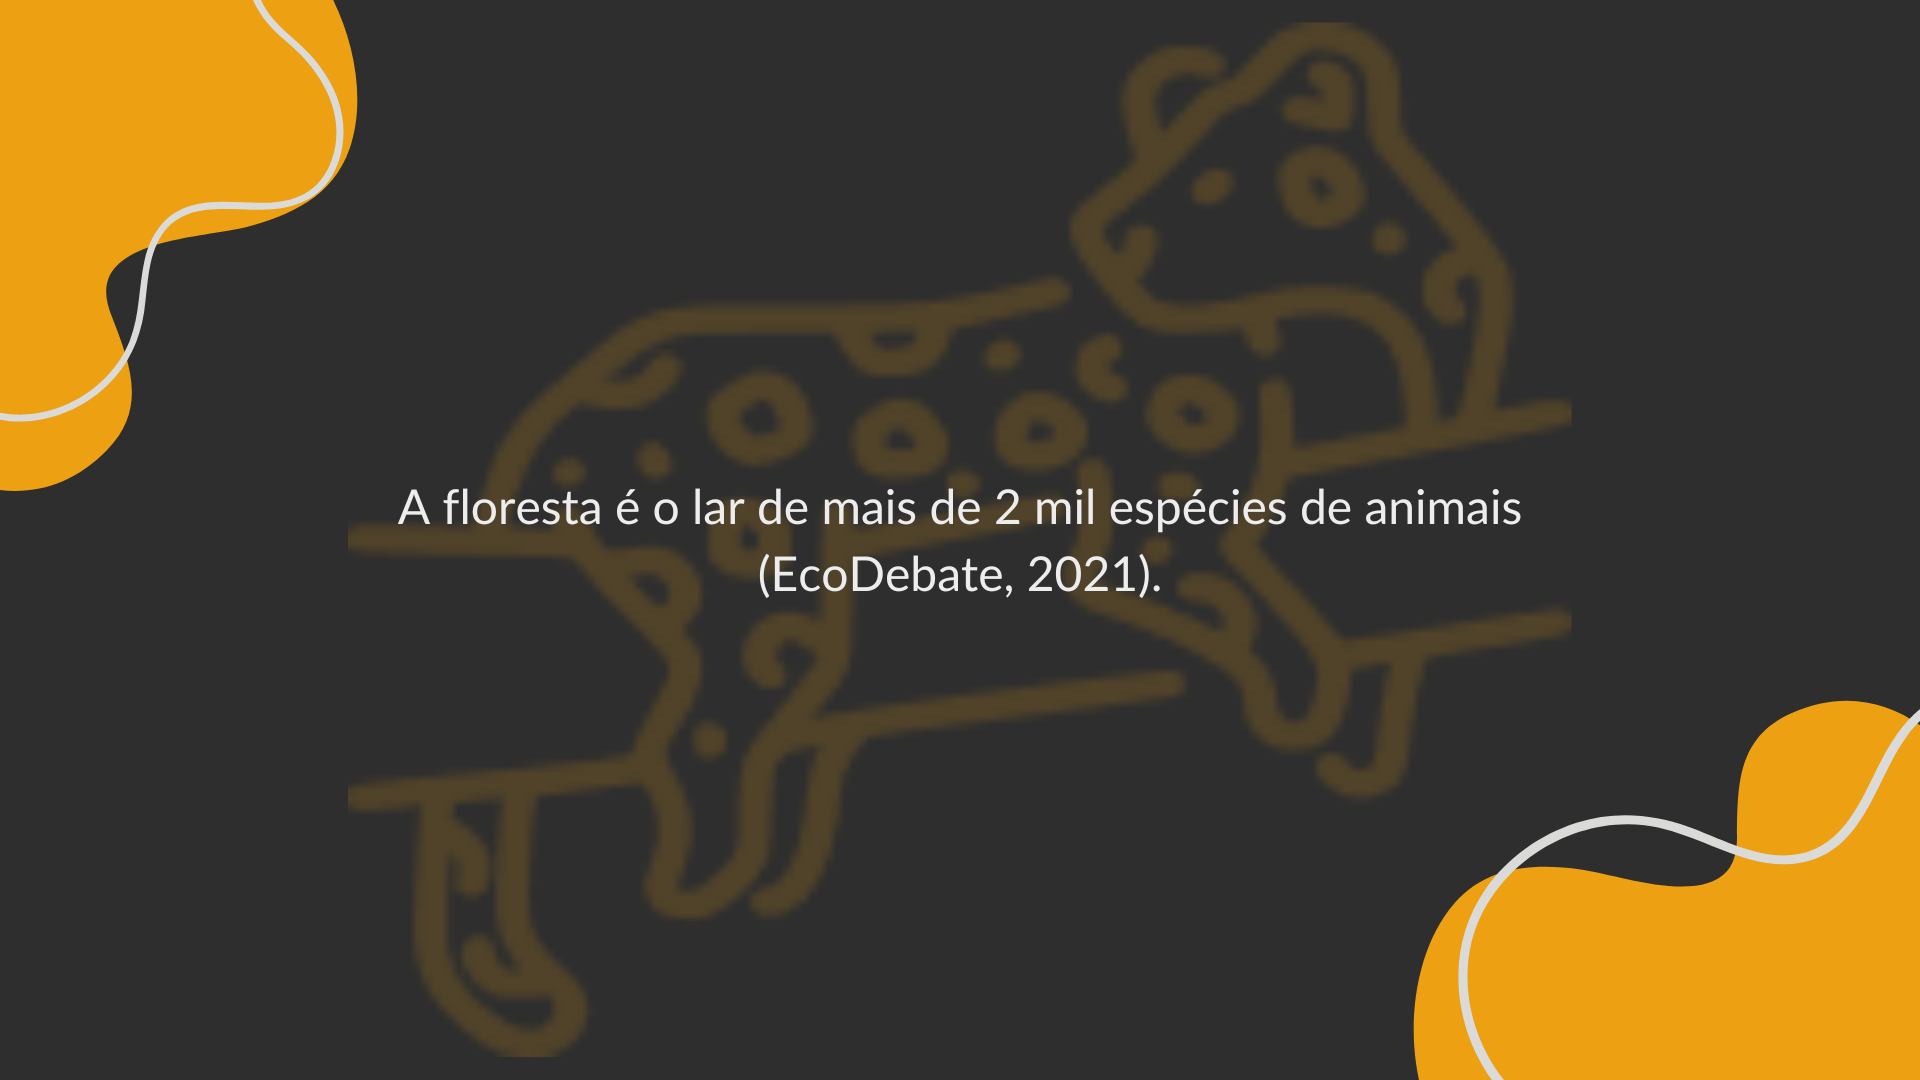
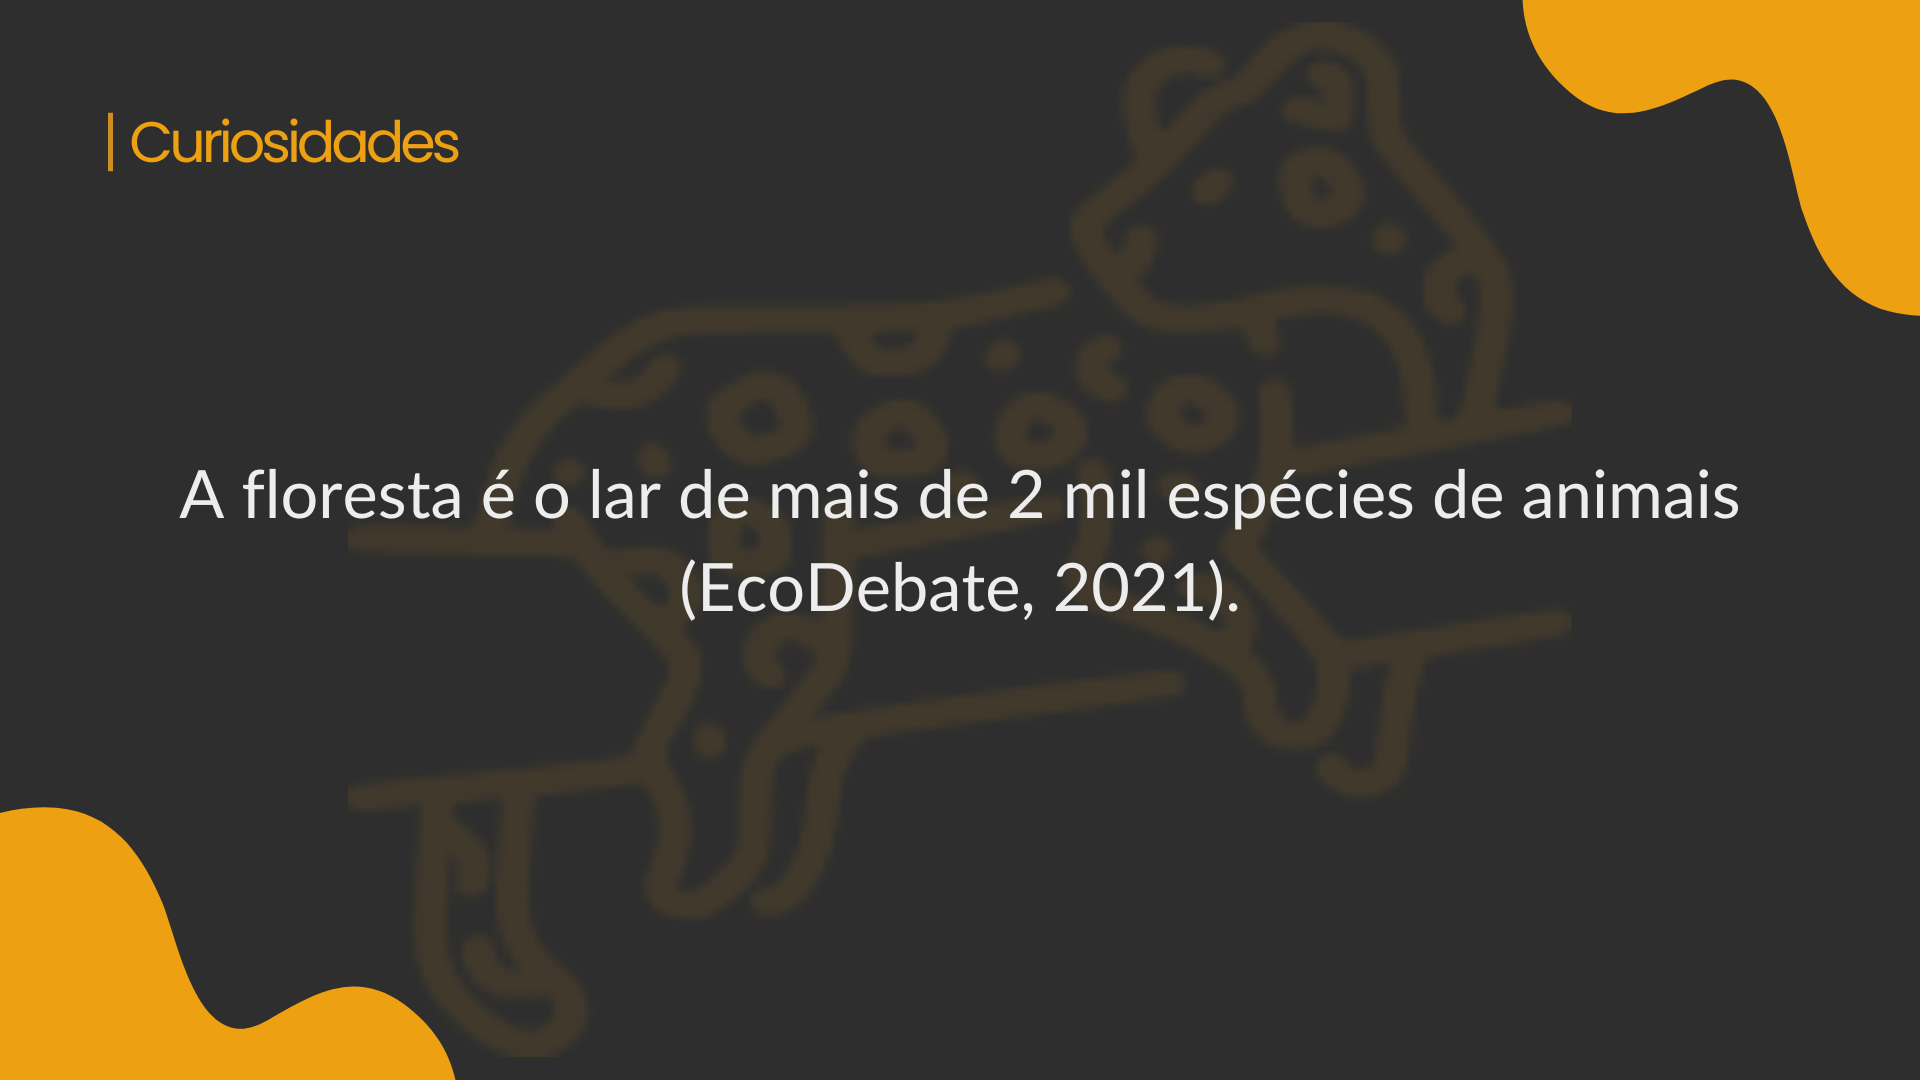
carrossel atualização

diff --git a/view/index.php b/view/index.php
@@ -6,23 +6,55 @@
     <div class="container-fluid">
         <div class="container">
             <div class="row">
-                <div class="col-sm-12 col-xxl-6 col-xl-6 text-center">
-                    <img data-aos="fade-up" src="images/img1.png" alt="">
+                <h1 data-aos="fade-up" class="quicksand-font text-center" id="sobre-nos">Sobre <span style="color: #EDA011;">nós</span></h1>
+                <p data-aos="fade-up" class="mt-4">A <span style="color: #EDA011;">WILD</span> tem por objetivo facilitar a comunicação entre o cidadão comum e as autoridades ambientais, simplificando o processo de denúncia e resposta.</p>   
+                <p data-aos="fade-up">Com a fauna ampla, o Vale do Ribeira tem cerca de 849 espécies de aves, 370 espécies de anfíbios, 200 de répteis e cerca de 350 espécies de peixes, porém estima-se que 50 dessas espécies estão ameaçadas de extinção. Logo, a <span style="color: #EDA011;">WILD</span> busca fornecer uma maneira prática para que o cidadão possa preservar o ecossistema.</p> 
+                
+                
+                <center>
+                <!--Carrossel-->
+            <div data-aos="fade-up" id="demo" class="carousel slide mt-5" data-bs-ride="carousel" style="width: 70%;">
+                <div class="carousel-indicators">
+                    <button type="button" data-bs-target="#demo" data-bs-slide-to="0" class="active"></button>
+                    <button type="button" data-bs-target="#demo" data-bs-slide-to="1"></button>
+                    <button type="button" data-bs-target="#demo" data-bs-slide-to="2"></button>
+                    <button type="button" data-bs-target="#demo" data-bs-slide-to="3"></button>
+                    <button type="button" data-bs-target="#demo" data-bs-slide-to="4"></button>
+                    <button type="button" data-bs-target="#demo" data-bs-slide-to="5"></button>
                 </div>
-
-                <div class="col-sm-12 col-xxl-6 col-xl-6 mt-4">
-                    <h1 data-aos="fade-up" class="quicksand-font" id="sobre-nos">Sobre <span style="color: #EDA011;">nós</span></h1>
-                    <p data-aos="fade-up" class="mt-4">A <span style="color: #EDA011;">WILD</span> tem por objetivo facilitar a comunicação entre o cidadão comum e as autoridades ambientais, simplificando o processo de denúncia e resposta.</p>
+  
+                <div class="carousel-inner rounded">
+                    <div class="carousel-item active">
+                        <img src="images/1.png" alt="Primeira imagem" class="d-block w-100">
+                    </div>
+                    <div class="carousel-item rounded">
+                        <img src="images/2.png" alt="Segunda imagem" class="d-block w-100">
+                    </div>
+                    <div class="carousel-item rounded">
+                        <img src="images/3.png" alt="Terceira imagem" class="d-block w-100">
+                    </div>
+                    <div class="carousel-item rounded">
+                        <img src="images/4.png" alt="Segunda imagem" class="d-block w-100">
+                    </div>
+                    <div class="carousel-item rounded">
+                        <img src="images/5.png" alt="Terceira imagem" class="d-block w-100">
+                    </div>
+                    <div class="carousel-item rounded">
+                        <img src="images/6.png" alt="Terceira imagem" class="d-block w-100">
+                    </div>
                 </div>
+  
+                <button class="carousel-control-prev" type="button" data-bs-target="#demo" data-bs-slide="prev">
+                    <span class="carousel-control-prev-icon"></span>
+                </button>
+                <button class="carousel-control-next" type="button" data-bs-target="#demo" data-bs-slide="next">
+                    <span class="carousel-control-next-icon"></span>
+                </button>
             </div>
-
-            <div class="row">
-                <div class="col mt-5">                  
-                    <p data-aos="fade-up">Com a fauna ampla, o Vale do Ribeira tem cerca de 849 espécies de aves, 370 espécies de anfíbios, 200 de répteis e cerca de 350 espécies de peixes, porém estima-se que 50 dessas espécies estão ameaçadas de extinção. Logo, a <span style="color: #EDA011;">WILD</span> busca fornecer uma maneira prática para que o cidadão possa preservar o ecossistema.</p>
-                </div>
+            </center>
+                
             </div>
-        </div>
-        
+        </div>       
     </div>
 
     <div class="container-fluid mt-5" style="background-color: #313131; padding-top: 90px; padding-bottom: 90px;">
@@ -102,7 +134,7 @@
     </div>
 
     <!--Denúncias do mês-->
-    <div class="container" style="padding-top: 90px;">
+    <div class="container" style="padding-top: 300px;">
 
         <h1 data-aos="fade-up" class="text-center quicksand-font" id="aplicativo">Denúncias <span style="color: #EDA011;">recentes</span></h1>
 
@@ -111,7 +143,7 @@
                 <tr>
                     <th scope="col" style="color: #EDA011;">Foto</th>
                     <th scope="col" style="color: #EDA011;">Nome</th>
-                    <th scope="col" style="color: #EDA011;">Tipo</th>                   
+                    <th scope="col" style="color: #EDA011;">Status</th>                   
                 </tr>
             </thead>
 
@@ -124,7 +156,7 @@
 </main>
 
 <!--Card-->
-<div class="container" style="padding-top: 90px;">
+<div class="container" style="padding-top: 200px;">
 
     <h1 data-aos="fade-up" class="mt-5 mb-5 text-center quicksand-font" id="aplicativo">Nossa <span style="color: #EDA011;">equipe!</span></h1>
 

diff --git a/controller/funcao-read-animal-tab.php b/controller/funcao-read-animal-tab.php
@@ -4,9 +4,9 @@
         $query = mysqli_query($conexao,"SELECT * FROM denuncia ORDER BY nome DESC");
             while($exibe = mysqli_fetch_array($query)){
             echo "<tr>
-                    <th>$exibe[1]</th>
-                    <td>Mark</td>
-                    <td>Otto</td>
+                    <th>$exibe[6]</th>
+                    <td>$exibe[1]</td>
+                    <td>$exibe[2]</td>
                 </tr>";       
             }
     }   

diff --git a/view/blades/footer.php b/view/blades/footer.php
@@ -20,6 +20,9 @@
                 <a href="#aplicativo" class="nav-link px-2">Aplicativo</a>
             </li>
             <li class="nav-item">
+                <a href="#aplicativo" class="nav-link px-2">Denúncias</a>
+            </li>
+            <li class="nav-item">
                 <a href="#nossa-equipe" class="nav-link px-2">Integrantes</a>
             </li>
         </ul>
